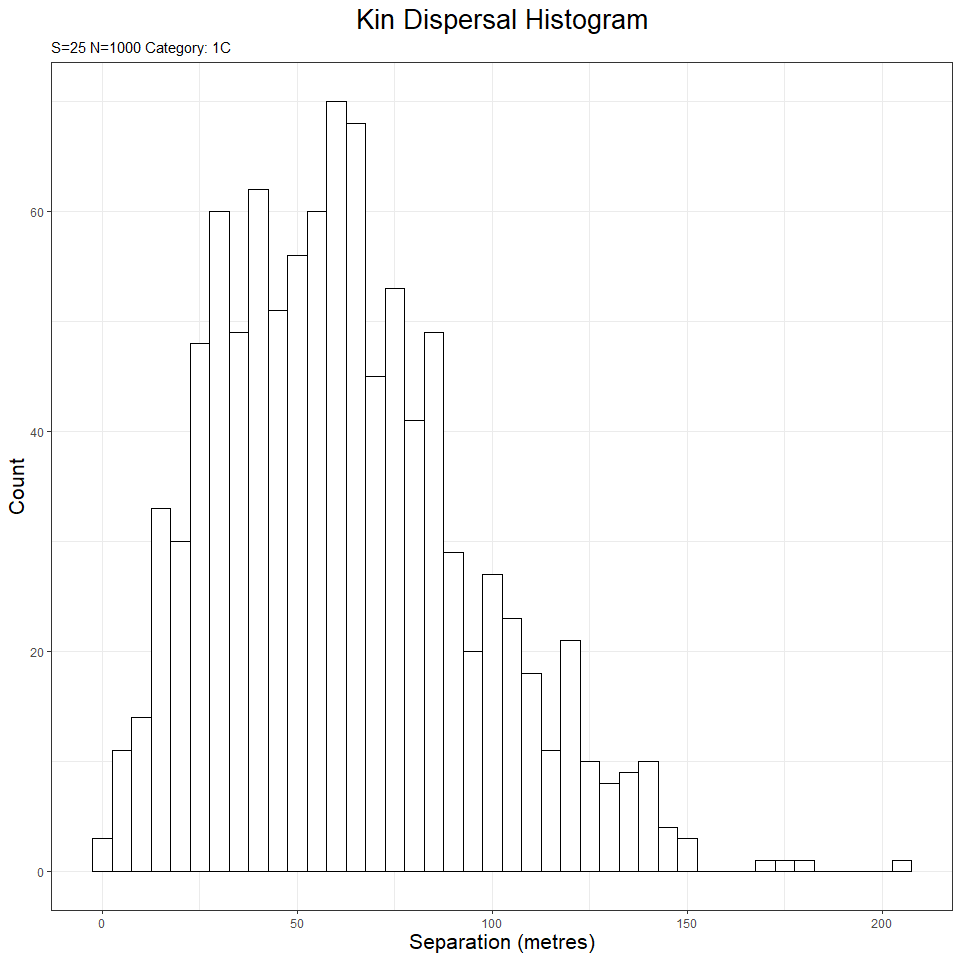
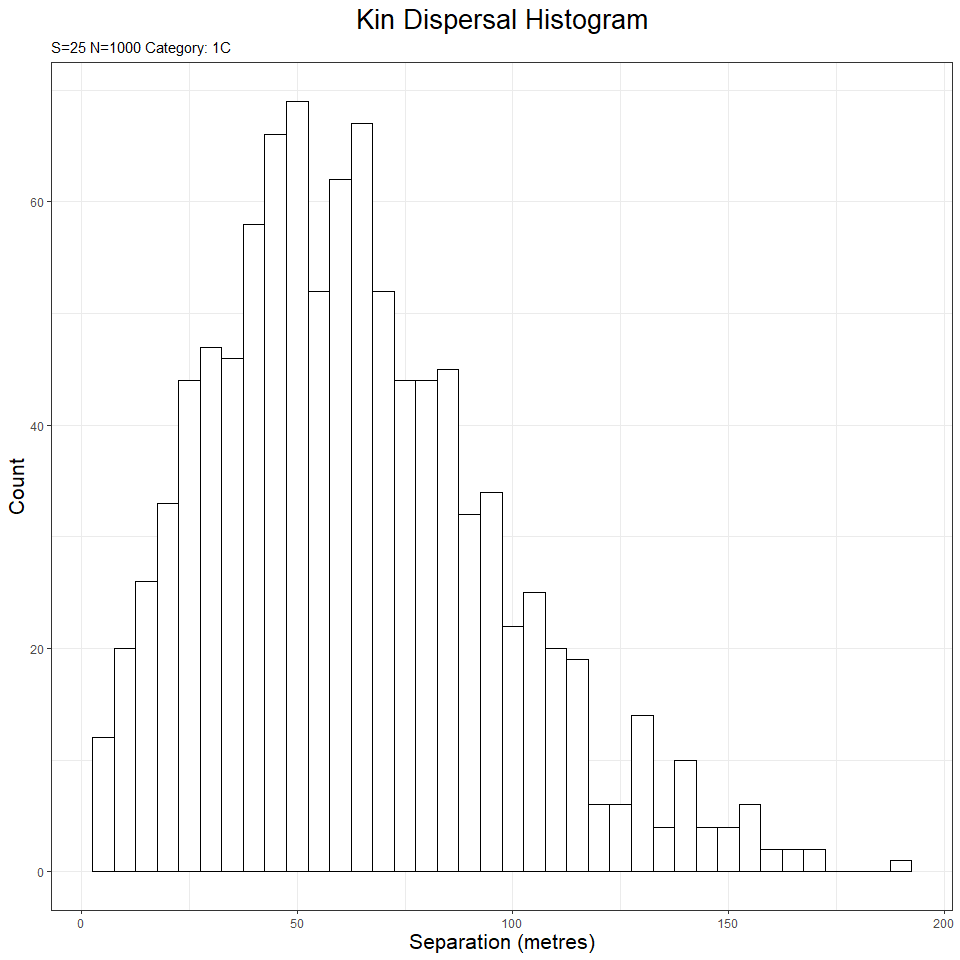
changed juvsigma and related variables to initsigma to be more reflective of underlying biology

diff --git a/README.md b/README.md
@@ -3,7 +3,7 @@
 
 # kindisperse
 
-v0.7.4 <!-- badges: start --> <!-- badges: end -->
+v0.7.5 <!-- badges: start --> <!-- badges: end -->
 
 The goal of kindisperse is to simulate and estimate close-kin dispersal
 kernels.
@@ -153,7 +153,7 @@ Once installed, load the package as follows:
 
 ``` r
 library(kindisperse)
-#> kindisperse 0.7.3
+#> kindisperse 0.7.4
 ```
 
 ## Simulations and Sampling
@@ -172,7 +172,6 @@ visualisation function(`simgraph_graph()`). A standard example of their
 use is shown below:
 
 ``` r
-
 ## run graphical simulation
 graphdata <- simgraph_data(nsims = 1000, dsigma = 25, dims = 250)
 simgraph_graph(graphdata, nsim = 5, kinship = "1C")
@@ -184,7 +183,6 @@ However, the options of both can be tweaked to show other data types,
 e.g. a pinwheel graph
 
 ``` r
-
 graphdata <- simgraph_data(nsims = 1000, dsigma = 25, dims = 250)
 simgraph_graph(graphdata, nsims = 1000, pinwheel = T, kinship = "1C")
 ```
@@ -194,7 +192,6 @@ simgraph_graph(graphdata, nsims = 1000, pinwheel = T, kinship = "1C")
 or a histogram:
 
 ``` r
-
 graphdata <- simgraph_data(nsims = 1000, dsigma = 25, dims = 250)
 simgraph_graph(graphdata, nsims = 1000, histogram = T, kinship = "1C")
 ```
@@ -245,13 +242,13 @@ simulate_kindist_simple(nsims = 5, sigma = 100, method = "Gaussian", kinship = "
 #> 
 #> tab
 #> # A tibble: 5 x 8
-#>   id1   id2   kinship distance     x1    y1    x2      y2
-#>   <chr> <chr> <chr>      <dbl>  <dbl> <dbl> <dbl>   <dbl>
-#> 1 1a    1b    PO         87.9  53.7    58.5  85.7  140.  
-#> 2 2a    2b    PO        115.    0.311  81.6  75.4   -5.16
-#> 3 3a    3b    PO         76.7  26.7    42.0  99.7   18.2 
-#> 4 4a    4b    PO        127.    3.70   21.2 -32.6 -101.  
-#> 5 5a    5b    PO          6.60 62.1    33.4  56.3   30.3 
+#>   id1   id2   kinship distance    x1    y1    x2     y2
+#>   <chr> <chr> <chr>      <dbl> <dbl> <dbl> <dbl>  <dbl>
+#> 1 1a    1b    PO         148.   10.1  80.7 111.   -28.2
+#> 2 2a    2b    PO         190.   47.7  66.1  79.5 -121. 
+#> 3 3a    3b    PO          29.3  36.9  85.7  16.6   64.6
+#> 4 4a    4b    PO          63.9  77.3  98.9  20.5   69.7
+#> 5 5a    5b    PO          61.5  40.9  26.8  95.7   54.7
 #> -----------------------------------
 ```
 
@@ -259,7 +256,7 @@ The composite simulation, `simulate_kindist_composite()`, defines four
 smaller dispersal movements which make up the lifestage dispersal
 kernel. It distinguishes between full and half siblings, cousins, etc.
 and handles larva that have only passed through a fraction of the
-lifespan. The four phases are ‘juvenile’ (handling any dispersal between
+lifespan. The four phases are ‘initial’ (handling any dispersal between
 hatching and breeding), ‘breeding’ (movement across the breeding aspect
 of the cycle), ‘gravid’ (movement after breeding but before deposition
 of young), and ‘oviposition’ (movement made while ovipositing/ bearing
@@ -275,21 +272,21 @@ in mosquitoes (which this package is modelled on) are expected to be due
 to having the same father & separate mothers: the last contribution of
 the father’s dispersal is at the breeding stage, so the ‘HS’ phase are
 differentiated by the breeding, gravid, & oviposition phases, but share
-in common the juvenile phase. The parent-offspring ‘PO’ phase, on the
+in common the initial phase. The parent-offspring ‘PO’ phase, on the
 other hand, share all (or none) of the component dispersal
 distributions.
 
 An example composite simulation is demostrated below:
 
 ``` r
-simulate_kindist_composite(nsims = 5, juvsigma = 50, breedsigma = 30, gravsigma = 50, ovisigma = 10, method = "Laplace", kinship = "H1C", lifestage = "oviposition")
+simulate_kindist_composite(nsims = 5, initsigma = 50, breedsigma = 30, gravsigma = 50, ovisigma = 10, method = "Laplace", kinship = "H1C", lifestage = "oviposition")
 #> KINDISPERSE SIMULATION of KIN PAIRS
 #> -----------------------------------
 #> simtype:      composite 
 #> kerneltype:       Laplace 
 #> kinship:      H1C 
 #> simdims:      100 
-#> juvsigma      50 
+#> initsigma         50 
 #> breedsigma        30 
 #> gravsigma         50 
 #> ovisigma      10 
@@ -297,13 +294,13 @@ simulate_kindist_composite(nsims = 5, juvsigma = 50, breedsigma = 30, gravsigma 
 #> 
 #> tab
 #> # A tibble: 5 x 8
-#>   id1   id2   kinship distance     x1    y1    x2    y2
-#>   <chr> <chr> <chr>      <dbl>  <dbl> <dbl> <dbl> <dbl>
-#> 1 1a    1b    H1C        169.  133.    46.7  44.5 191. 
-#> 2 2a    2b    H1C        269.    5.13  46.2 265.  115. 
-#> 3 3a    3b    H1C        147.  156.   -87.3 155.   60.1
-#> 4 4a    4b    H1C        122.   34.4   42.9 -48.4 -46.5
-#> 5 5a    5b    H1C         94.3  40.1   13.0  60.0 105. 
+#>   id1   id2   kinship distance    x1    y1      x2    y2
+#>   <chr> <chr> <chr>      <dbl> <dbl> <dbl>   <dbl> <dbl>
+#> 1 1a    1b    H1C        341.  -69.1 157.   261.    74.9
+#> 2 2a    2b    H1C         40.1 -16.1 101.   -18.2  141. 
+#> 3 3a    3b    H1C        126.  -49.0 221.  -152.   293. 
+#> 4 4a    4b    H1C        113.  317.   12.6  257.   -83.3
+#> 5 5a    5b    H1C        173.  -94.6 187.     7.87  47.3
 #> -----------------------------------
 ```
 
@@ -316,7 +313,6 @@ classes and filters based on the study area size, number of kin expected
 to be found, & trap spacing. It is demonstrated below.
 
 ``` r
-
 compsim <- simulate_kindist_composite(nsims = 100000, kinship = "H2C")
 
 sample_kindist(compsim, upper = 1000, lower = 200, spacing = 50, n = 25)
@@ -331,7 +327,7 @@ sample_kindist(compsim, upper = 1000, lower = 200, spacing = 50, n = 25)
 #> kerneltype:       Gaussian 
 #> kinship:      H2C 
 #> simdims:      100 
-#> juvsigma      100 
+#> initsigma         100 
 #> breedsigma        50 
 #> gravsigma         50 
 #> ovisigma      25 
@@ -346,18 +342,18 @@ sample_kindist(compsim, upper = 1000, lower = 200, spacing = 50, n = 25)
 #> 
 #> tab
 #> # A tibble: 25 x 8
-#>    id1    id2    kinship distance     x1      y1     x2      y2
-#>    <chr>  <chr>  <chr>      <dbl>  <dbl>   <dbl>  <dbl>   <dbl>
-#>  1 38728a 38728b H2C          675  481.    44.2  -150.   339.  
-#>  2 16917a 16917b H2C          675  233.   163.   -334.  -180.  
-#>  3 51782a 51782b H2C          475 -374.    -3.25   39.9  195.  
-#>  4 50852a 50852b H2C          275  -23.1   86.4   232.    14.7 
-#>  5 98991a 98991b H2C          475 -262.   -44.5    88.4  271.  
-#>  6 82624a 82624b H2C          725 -105.   403.    480.     8.95
-#>  7 99378a 99378b H2C          475  158.  -330.     65.7  139.  
-#>  8 68721a 68721b H2C          325  -33.6  377.   -169.    91.7 
-#>  9 22578a 22578b H2C          325 -122.   309.    179.   153.  
-#> 10 12047a 12047b H2C          325  195.   140.     30.3 -136.  
+#>    id1    id2    kinship distance     x1    y1       x2      y2
+#>    <chr>  <chr>  <chr>      <dbl>  <dbl> <dbl>    <dbl>   <dbl>
+#>  1 22290a 22290b H2C          575 -235.   17.2  360.      57.7 
+#>  2 30998a 30998b H2C          325  -17.5  34.5  -72.4    352.  
+#>  3 19654a 19654b H2C          375  -18.2 -95.1  329.    -277.  
+#>  4 28613a 28613b H2C          375  103.  115.  -282.     220.  
+#>  5 93870a 93870b H2C          225  -50.5  49.6  105.    -121.  
+#>  6 30332a 30332b H2C          225  209.  -79.7  122.     147.  
+#>  7 40550a 40550b H2C          475  340.  216.  -153.     129.  
+#>  8 81656a 81656b H2C          425 -328.  273.    20.1     -7.16
+#>  9 98520a 98520b H2C          375  -68.0 113.    -0.789 -265.  
+#> 10 43467a 43467b H2C          325  130.  183.     5.97  -103.  
 #> # ... with 15 more rows
 #> -----------------------------------
 ```
@@ -434,31 +430,31 @@ the intergenerational dispersal kernel axial sigma.
 
 ### Basic estimation of axial sigma
 
-Axial sigma is most simply estimated with the function `axials(x,
-composite = 1)`. This function estimates the axial value of a simple
-kernel assuming that all distances measured represent one dispersal
-event governed by the kernel (e.g. the distance between a parent and
-their offspring at the equivalent lifestage, such as both as eggs). For
-slightly more complex situations, such as full siblings, where the
-distances between them result from two or more draws from the **same**
-underlying distribution (ovipositing parent to offspring \#1,
+Axial sigma is most simply estimated with the function
+`axials(x, composite = 1)`. This function estimates the axial value of a
+simple kernel assuming that all distances measured represent one
+dispersal event governed by the kernel (e.g. the distance between a
+parent and their offspring at the equivalent lifestage, such as both as
+eggs). For slightly more complex situations, such as full siblings,
+where the distances between them result from two or more draws from the
+**same** underlying distribution (ovipositing parent to offspring \#1,
 ovipositing parent to offspring \#2), the value of `composite` can be
 adjusted to reflect the number of such symmetrical component events(for
 this specific case, you can also use `axials_norm()`). (e.g. the
 great-grandparent to great-grandchild category, ‘GGG’ is a combination
-of three draws from the PO distribution, and thus would take `composite
-= 3`):
+of three draws from the PO distribution, and thus would take
+`composite = 3`):
 
 ``` r
 paroff <- simulate_kindist_simple(nsims = 1000, sigma = 75, kinship = "PO")
 axials(paroff)
-#> [1] 73.22004
+#> [1] 75.82567
 ```
 
 ``` r
 fullsibs <- simulate_kindist_composite(nsims = 10000, ovisigma = 25, kinship = "FS")
 axials(fullsibs, composite = 2)
-#> [1] 25.04289
+#> [1] 24.79196
 ```
 
 Various auxillary functions exist to further manipulate axial distances
@@ -509,16 +505,15 @@ we’ll set up our individual axial sigmas for the component
 distributions.
 
 ``` r
-
 # set up initial sigma values
 
-juv = 50
+init = 50
 brd = 25
 grv = 75
 ovs = 10
 
 # calculate theoretical PO value
-po_sigma <- sqrt(juv^2 + brd^2 + grv^2 + ovs^2)
+po_sigma <- sqrt(init^2 + brd^2 + grv^2 + ovs^2)
 po_sigma
 #> [1] 94.07444
 ```
@@ -532,18 +527,17 @@ Because they are simulated objects, categories don’t need to be
 supplied.
 
 ``` r
-
 # set up sims
 
-fullsibs <- simulate_kindist_composite(nsims = 75, juvsigma = juv, breedsigma = brd, gravsigma = grv, ovisigma = ovs, kinship = "FS")
+fullsibs <- simulate_kindist_composite(nsims = 75, initsigma = init, breedsigma = brd, gravsigma = grv, ovisigma = ovs, kinship = "FS")
 
-fullcous <- simulate_kindist_composite(nsims = 75, juvsigma = juv, breedsigma = brd, gravsigma = grv, ovisigma = ovs, kinship = "1C")
+fullcous <- simulate_kindist_composite(nsims = 75, initsigma = init, breedsigma = brd, gravsigma = grv, ovisigma = ovs, kinship = "1C")
 
 # calculate PO axial sigma C.I. 
 
 axpermute_standard(fullcous, fullsibs)
-#>      2.5%       50%     97.5% 
-#>  82.33003  92.51878 102.66794
+#>     2.5%      50%    97.5% 
+#> 77.21029 87.75758 99.53078
 ```
 
 As we can see, the C.I. neatly brackets the actual axial value, though
@@ -554,9 +548,9 @@ data-wrangling):
 
 ``` r
 # Set up new distributions
-halfsibs <- simulate_kindist_composite(nsims = 75, juvsigma = juv, breedsigma = brd, gravsigma = grv, ovisigma = ovs, kinship = "HS")
+halfsibs <- simulate_kindist_composite(nsims = 75, initsigma = init, breedsigma = brd, gravsigma = grv, ovisigma = ovs, kinship = "HS")
 
-halfcous <- simulate_kindist_composite(nsims = 75, juvsigma = juv, breedsigma = brd, gravsigma = grv, ovisigma = ovs, kinship = "H1C")
+halfcous <- simulate_kindist_composite(nsims = 75, initsigma = init, breedsigma = brd, gravsigma = grv, ovisigma = ovs, kinship = "H1C")
 
 # combine cousin distributions & recompose as object. Chaning kinship
 # to standard value for unknown as I will be combining the distributions. 
@@ -572,18 +566,18 @@ cousins
 #> 
 #> tab
 #> # A tibble: 150 x 9
-#>    id1   id2   kinship distance     x1      y1     x2       y2 lifestage
-#>    <chr> <chr> <chr>      <dbl>  <dbl>   <dbl>  <dbl>    <dbl> <chr>    
-#>  1 1a    1b    UN         177.  -91.3  162.     79.8   118.    larva    
-#>  2 2a    2b    UN         125.  164.    16.3    42.9    47.0   larva    
-#>  3 3a    3b    UN         153.  -22.1  -99.6    55.8    32.5   larva    
-#>  4 4a    4b    UN          90.2  -2.87 209.     60.3   145.    larva    
-#>  5 5a    5b    UN          43.0 -35.2   80.8     5.20   66.1   larva    
-#>  6 6a    6b    UN          66.8 -33.1   10.6    28.0    37.8   larva    
-#>  7 7a    7b    UN         143.  160.   201.     65.7    93.8   larva    
-#>  8 8a    8b    UN          52.7  92.0    0.258  40.3    -9.78  larva    
-#>  9 9a    9b    UN         299.  187.    34.9   -64.5  -126.    larva    
-#> 10 10a   10b   UN          84.3  -2.45  80.0    22.0    -0.657 larva    
+#>    id1   id2   kinship distance     x1     y1     x2     y2 lifestage
+#>    <chr> <chr> <chr>      <dbl>  <dbl>  <dbl>  <dbl>  <dbl> <chr>    
+#>  1 1a    1b    UN         244.   77.5   173.  -58.5   -30.1 larva    
+#>  2 2a    2b    UN         116.   44.2    68.2   8.52  -42.5 larva    
+#>  3 3a    3b    UN         143.   99.0   -49.9  -5.68   46.9 larva    
+#>  4 4a    4b    UN         176.   56.7   -94.2  62.9    81.9 larva    
+#>  5 5a    5b    UN          43.1 213.    120.  170.    116.  larva    
+#>  6 6a    6b    UN         121.   53.4   133.  -67.6   139.  larva    
+#>  7 7a    7b    UN         132.   46.5  -101.   90.7    23.0 larva    
+#>  8 8a    8b    UN         263.  -87.6    44.4  63.7  -170.  larva    
+#>  9 9a    9b    UN          85.4  -5.16   96.3 -80.1   137.  larva    
+#> 10 10a   10b   UN          46.3 181.     45.6 223.     63.8 larva    
 #> # ... with 140 more rows
 #> -------------------------------
 ```
@@ -594,13 +588,12 @@ simulation class data. Now to run the estimation function, supplying
 missing category data:
 
 ``` r
-
 # amix allows supply of additional (mixed) kin category H1C to acat 1C;
 # bcomp allows supply of distribution to composite with bvect (this is done to match 
 # the cousin mixture in phase)
 axpermute_standard(avect = cousins, acat = "1C", amix = TRUE, amixcat = "H1C", bvect = fullsibs, bcomp = TRUE, bcompvect = halfsibs)
-#>      2.5%       50%     97.5% 
-#>  76.59773  91.63796 106.20613
+#>     2.5%      50%    97.5% 
+#> 65.82374 80.23677 92.66320
 ```
 
 This estimate is a lot more convoluted, and not as ‘spot on’- but the
@@ -628,11 +621,12 @@ Alternatively, objects you have loaded or created in the R package
 environment can be passed to the app by first mounting them to the
 special `appdata` environment which can be accessed from within the app
 via the `Load` tab. Mounted objects must be of class `KinPairData` or
-`KinPairSimulation`. To mount an object, use the `mount_appdata(obj,
-"nm")` function (unmount with `unmount_appdata("nm")`). The `appdata`
-environment can be viewed with `display_appdata()` and cleared with
-`reset_appdata()`. Objects mounted to appdata from within the app can
-also be retrieved with `retrieve_appdata()` or `retrieveall_appdata()`.
+`KinPairSimulation`. To mount an object, use the
+`mount_appdata(obj, "nm")` function (unmount with
+`unmount_appdata("nm")`). The `appdata` environment can be viewed with
+`display_appdata()` and cleared with `reset_appdata()`. Objects mounted
+to appdata from within the app can also be retrieved with
+`retrieve_appdata()` or `retrieveall_appdata()`.
 
 ``` r
 fullsibs <- simulate_kindist_composite(nsims = 100, ovisigma = 25, kinship = "FS")
